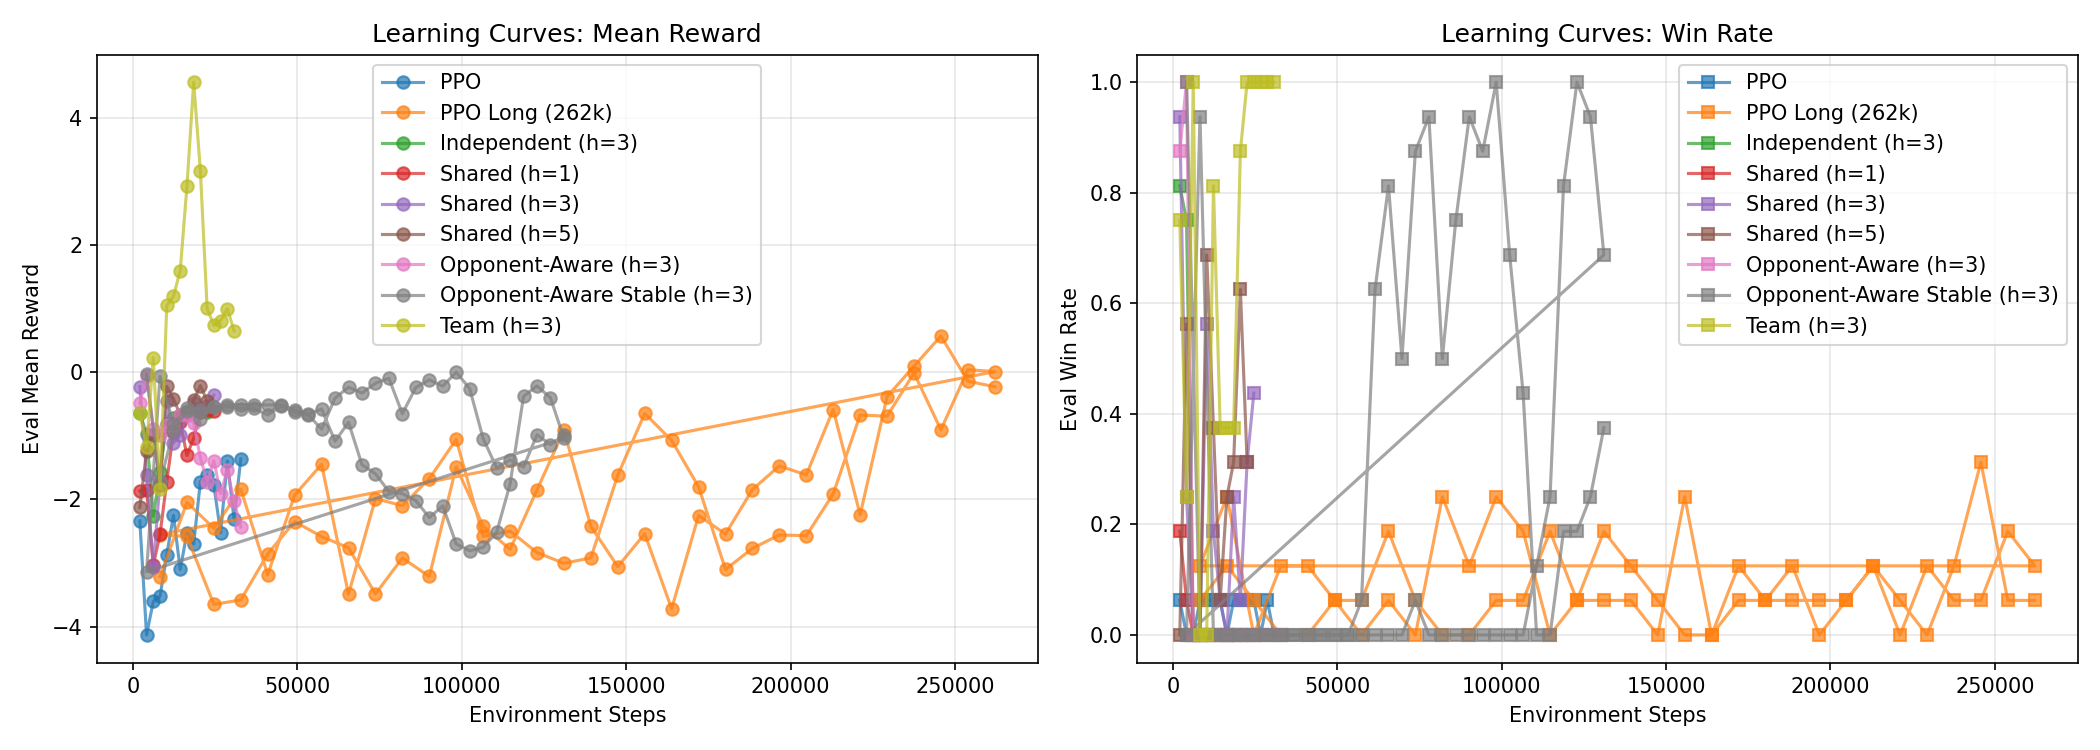
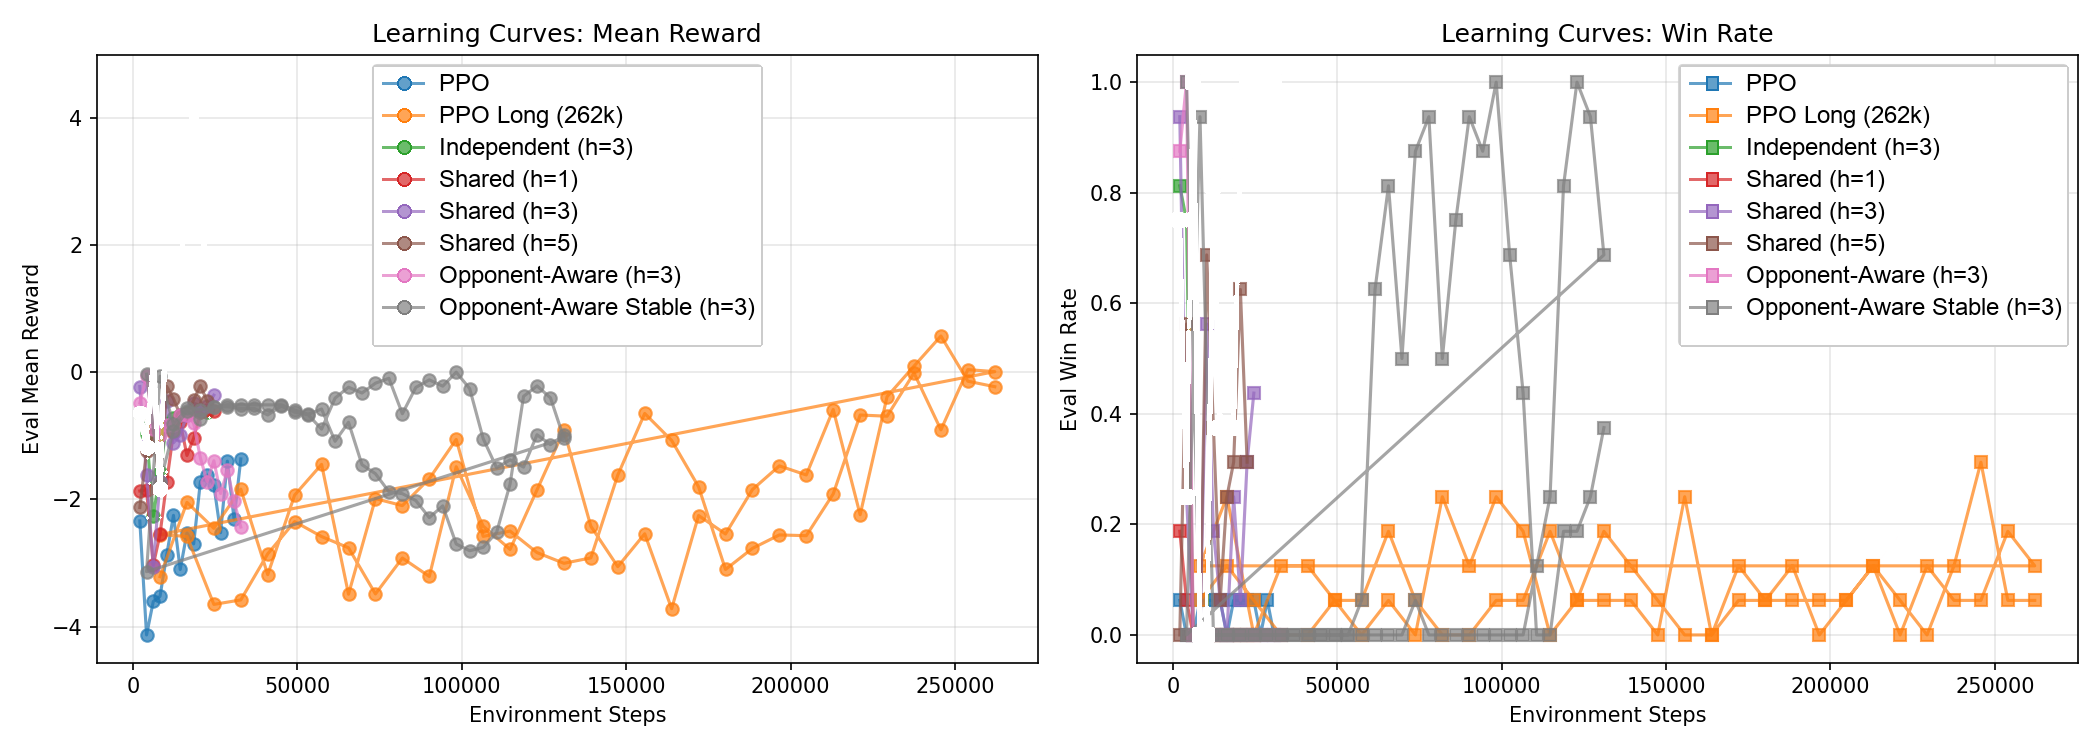
final changes

diff --git a/report_oscar_rewrite.tex b/report_oscar_rewrite.tex
@@ -1,0 +1,200 @@
+\documentclass[11pt]{article}
+
+\usepackage[margin=1in]{geometry}
+\usepackage{booktabs}
+\usepackage{graphicx}
+\usepackage{url}
+\usepackage{hyperref}
+\usepackage{amsmath}
+\usepackage{float}
+
+\title{Multi-Agent Reinforcement Learning in Pommerman: Comparing PPO and Dreamer-Style World Models}
+\author{Kosta Karathanosopoulos \and Taari Chandaria \and Wilfred Allison \and Ryder Swenson}
+\date{CS 1470 Final Project, Brown University, Spring 2026}
+
+\begin{document}
+\maketitle
+
+\section{Introduction}
+
+Many reinforcement learning methods are developed in settings where one agent acts in a mostly stationary environment. Multi-agent environments are harder: the world changes not only because of physics, but also because other agents make decisions. This makes learning especially difficult when rewards are sparse and delayed. A policy must learn what to do, while a model-based agent must also learn dynamics that include other agents' behavior.
+
+We study this problem in Pommerman, a four-player grid-world inspired by Bomberman. Agents move through an $11 \times 11$ board, place bombs, destroy wooden walls, collect power-ups, and try to survive while eliminating opponents. Pommerman is small enough for a course-scale project, but it still requires spatial reasoning, safety, planning, and opponent awareness. This makes it a useful testbed for asking whether a learned world model can help in a competitive multi-agent environment.
+
+Our project compares a model-free PPO baseline against Dreamer-style model-based agents. PPO learns directly from real rollouts using clipped policy-gradient updates. Dreamer instead learns a recurrent latent world model that predicts future board states, rewards, and episode continuation, then trains actor-critic policies through imagined rollouts. We implement three Dreamer variants: independent world models, a shared world model, and opponent-aware world models conditioned on other agents' recent actions and alive status.
+
+The main result is nuanced. In the original 2048-step local study, PPO was the strongest early baseline, reaching an evaluation mean reward of $1.14$ and a $50\%$ win rate over a small evaluation set. Early Dreamer variants learned world-model signals but did not win. However, larger Oscar runs changed the story: PPO's final win rate stayed weak under stricter free-for-all (FFA) evaluation, while shared Dreamer variants achieved much stronger win rates. The strongest comparable FFA result was Shared Dreamer with imagination horizon $h=3$, which reached a final win rate of $43.75\%$ and a best logged win rate of $93.75\%$. We therefore conclude that PPO is a useful early sanity-check baseline, but shared world-model learning becomes promising with more compute and training support.
+
+\section{Literature Review}
+
+Our work builds on Dreamer, a model-based reinforcement learning agent introduced by Hafner et al. \cite{hafner2020dreamer}. Dreamer learns a recurrent state-space model (RSSM) from experience, uses it to imagine latent trajectories, and trains a policy and value function on those imagined rollouts. The original Dreamer setting is single-agent control, where the transition dynamics depend on the agent and a fixed environment.
+
+Pommerman changes that assumption. In a single-agent model, the dynamics can be written as $p(s_{t+1} \mid s_t, a_t)$. In Pommerman, the next state depends on the joint action, closer to $p(s_{t+1} \mid s_t, a_t^1, a_t^2, a_t^3, a_t^4)$. If a world model ignores the other agents, it may produce misleading imagined futures. This is the central reason we test independent, shared, and opponent-aware Dreamer variants.
+
+Pommerman was introduced by Resnick et al. as a multi-agent benchmark with FFA play, partial observability, communication variants, planning, and opponent modeling \cite{resnick2018pommerman}. The environment is also known to be difficult for standard RL because useful actions can be dangerous early in training. Bombs are necessary for winning, but weak agents often die from their own bombs, creating a passive local optimum.
+
+PPO provides our model-free baseline \cite{schulman2017ppo}. PPO is relatively stable and simple, but it does not learn a dynamics model. In our experiments, PPO is useful as a baseline, but it also exposes an important metric issue: it trains on shaped rewards while we evaluate win rate using sparse terminal outcomes.
+
+\section{Methodology}
+
+\subsection{Environment and Observations}
+
+Pommerman is a four-agent grid world with rigid walls, wooden walls, passage tiles, power-ups, bombs, flames, and agents. Each agent chooses one of six actions: Stop, Up, Down, Left, Right, or Bomb. We focus on four-player FFA Pommerman, where each agent competes to be the last survivor. The environment is hard because agents must avoid explosions, navigate obstacles, decide when to clear wood, collect power-ups, and reason about other agents' future positions.
+
+We encode Pommerman's symbolic observations as tensors rather than rendered pixels. The board is represented with one-hot channels for tile types and agents. Additional feature planes encode bomb blast strength, bomb life, the controlled agent's position, ammo, blast strength, and kick ability. This keeps the problem spatial while avoiding the cost of visual perception from raw frames.
+
+\subsection{Models}
+
+The PPO baseline uses a convolutional encoder followed by actor and critic heads. The actor outputs a categorical distribution over six actions, and the critic predicts state value. PPO is trained from real trajectories using generalized advantage estimation with $\gamma=0.99$ and $\lambda=0.95$, a clipped objective with ratio $0.2$, entropy regularization, and multiple minibatch epochs.
+
+The Dreamer agents use a recurrent latent world model. Observations pass through a CNN encoder. A GRU-based RSSM maintains a deterministic state and a stochastic latent state. The world model predicts rewards, continuation, board reconstruction, and scalar observation features. The actor and critic operate on latent features and are trained from imagined rollouts. In the Oscar experiments, the main Dreamer runs used latent dimension 64, hidden dimension 256, sequence length 16, batch size 24, replay buffers between 16k and 32k, and imagination horizons 1, 3, or 5.
+
+Action masking means explicitly marking invalid actions as unavailable before sampling or training the policy, so agents do not waste updates on impossible or useless actions such as walking into walls or placing a bomb with no ammo. This was especially important for Dreamer, because imagined rollouts can otherwise let the actor exploit unrealistic actions inside an imperfect model.
+
+\paragraph{Independent Dreamer.}
+Each controlled agent has its own world model, actor, and critic. This allows specialization, but every agent must learn similar board physics separately.
+
+\paragraph{Shared Dreamer.}
+Agents share one world model while keeping separate actor and critic heads. This assumes that Pommerman's physical rules are common across agents. Our Oscar results support this design: shared horizon-3 and horizon-5 were the strongest comparable FFA Dreamer runs.
+
+\paragraph{Opponent-Aware Dreamer.}
+Each agent conditions its model on other agents' recent actions and alive status. This directly addresses multi-agent non-stationarity, but it also makes the model harder to optimize. In our runs, opponent-aware models sometimes reached very high best win rates but were less stable than the best shared model.
+
+\section{Challenges}
+
+The hardest part of the project was making the whole multi-agent RL pipeline trustworthy enough to interpret. Pommerman forced us to handle environment wrapping, observation encoding, reward shaping, recurrent replay, action validity, checkpointing, logging, evaluation, and visualization.
+
+The first challenge was reward design. Sparse terminal rewards provide little feedback, and bombs create a bad local optimum: early bomb use often kills weak agents, so agents can learn to survive passively instead of learning to win. We therefore used shaped rewards that preserved win/loss signals while adding intermediate terms for destroying wood, collecting power-ups, eliminating enemies, useful bombs, wasted bombs, blocked moves, ties, and step costs.
+
+This shaped reward helped training, but it also complicated interpretation. PPO can improve dense shaped reward without reliably winning games. This explains why PPO Long achieved a better best reward than short PPO but ended with only a $6.25\%$ final win rate. For this reason, we report final reward, best reward, final win rate, and best win rate separately.
+
+The second challenge was Dreamer's recurrent replay. The RSSM needs valid same-episode sequences; sampling across episode boundaries would corrupt the hidden state. We added sequence-aware replay checks to avoid training on invalid recurrent trajectories.
+
+The third challenge was the gap between world-model learning and control. In the early local runs, Dreamer world-model losses decreased, but the policies still did not win. This taught us to distinguish ``the model predicts something'' from ``the actor can use the model for good decisions.'' The larger Oscar runs show that this gap can shrink, especially for shared Dreamer, but it remains the key difficulty.
+
+Finally, evaluation itself was noisy. Pommerman wins are sparse, and many evaluations used small episode batches. Several methods spiked and then collapsed. Reporting both best and final win rate is therefore important: best win rate shows whether a method ever found a strong policy, while final win rate shows whether training preserved it.
+
+\section{Results}
+
+We report three pieces of evidence: the original short local study, later local/debugging runs that achieved nonzero Dreamer performance, and the larger Oscar FFA matrix.
+
+\subsection{Local and Debugging Runs}
+
+The first 2048-step local study validated that the pipeline worked, but it was too small to settle the algorithm comparison. PPO won early, while the initial Dreamer variants learned world-model signals but got zero wins. Later local debugging and optimized shared-Dreamer runs produced nonzero model-based performance, including a best-checkpoint evaluation of approximately $17.2\%$ win rate over 64 episodes.
+
+\begin{table}[H]
+\centering
+\resizebox{\linewidth}{!}{
+\begin{tabular}{lrrrr}
+\toprule
+Run & Steps & Final reward & Best reward & Best win rate \\
+\midrule
+PPO baseline & 2048 & 1.140 & 1.140 & 50.0\% \\
+Independent Dreamer & 2048 & -1.000 & -0.830 & 0.0\% \\
+Shared Dreamer & 2048 & -1.000 & -0.958 & 0.0\% \\
+Opponent-aware Dreamer & 2048 & -1.000 & -0.675 & 0.0\% \\
+Optimized Shared Dreamer ($h=1$) & 32768 & -- & -- & 17.2\% \\
+\bottomrule
+\end{tabular}
+}
+\caption{Local and debugging-stage results. The original 2048-step study favored PPO, but later optimized shared-Dreamer runs showed nonzero model-based control before the full Oscar matrix.}
+\label{tab:local-results}
+\end{table}
+
+\subsection{Oscar FFA Results}
+
+Table \ref{tab:oscar-results} shows the final Oscar FFA results. The main shift is that PPO no longer dominates. Short PPO finished with $0\%$ final win rate, and PPO Long finished with only $6.25\%$ final win rate despite reaching $31.25\%$ best win rate. Shared Dreamer $h=3$ was the strongest comparable final result, ending at $43.75\%$ win rate and reaching $93.75\%$ at its best checkpoint.
+
+\begin{table}[H]
+\centering
+\resizebox{\linewidth}{!}{
+\begin{tabular}{lrrrrrr}
+\toprule
+Experiment & Final reward & Best reward & Final win rate & Best win rate & Eval points & Last step \\
+\midrule
+PPO & -1.363 & -1.363 & 0.0\% & 6.25\% & 16 & 32768 \\
+PPO Long & -0.228 & 0.569 & 6.25\% & 31.25\% & 64 & 262144 \\
+Independent Dreamer ($h=3$) & -0.631 & -0.584 & 0.0\% & 81.25\% & 11 & 24216 \\
+Shared Dreamer ($h=1$) & -0.602 & -0.592 & 0.0\% & 18.75\% & 12 & 25952 \\
+Shared Dreamer ($h=3$) & -0.361 & -0.225 & 43.75\% & 93.75\% & 12 & 24856 \\
+Shared Dreamer ($h=5$) & -0.456 & -0.209 & 31.25\% & 68.75\% & 11 & 23156 \\
+Opponent-aware Dreamer ($h=3$) & -2.433 & -0.062 & 0.0\% & 100.0\% & 16 & 32768 \\
+Opponent-aware stable ($h=3$) & -0.988 & 0.001 & 37.5\% & 100.0\% & 64 & 131072 \\
+\bottomrule
+\end{tabular}
+}
+\caption{Oscar FFA results. Shared Dreamer with horizon 3 was the strongest comparable final result. PPO improved somewhat with longer training, but had low final win rate under the sparse terminal-win metric.}
+\label{tab:oscar-results}
+\end{table}
+
+The shared Dreamer results are the strongest positive finding. They suggest that Pommerman contains common physical dynamics that can be learned more efficiently by a shared model than by separate independent models. The horizon ablation is also informative: horizon 1 was too short, horizon 3 performed best, and horizon 5 remained strong but slightly weaker. This matches the intuition that Pommerman requires planning over delayed bomb effects, but long imagination can amplify model error.
+
+The opponent-aware results were high variance. Both opponent-aware variants reached $100\%$ best logged win rate, but the non-stabilized run collapsed to $0\%$ final win rate, and the stabilized version ended below Shared Dreamer $h=3$. Opponent conditioning is therefore promising, but harder to optimize than simple sharing.
+
+\begin{figure}[H]
+\centering
+\includegraphics[width=\linewidth]{results/final_results.png}
+\caption{Oscar reward and win-rate curves. Win rate is noisy, but Shared Dreamer $h=3$ and stabilized opponent-aware Dreamer achieve much stronger FFA win rates than PPO at their best checkpoints.}
+\label{fig:curves}
+\end{figure}
+
+Overall, the results support four conclusions. First, PPO is useful for early validation but does not reliably optimize terminal wins in our Oscar FFA runs. Second, shared world-model learning is the strongest Dreamer adaptation we tested. Third, opponent-aware modeling can produce strong peaks but was less stable. Fourth, reward shaping, action masking, checkpoint selection, and evaluation variance are central to interpreting multi-agent RL results in Pommerman.
+
+\section{Ethics}
+
+This project uses a benchmark game environment and does not involve personal data, human subjects, private information, or real-world deployment. The direct ethical risks are limited, but multi-agent RL methods can eventually transfer to higher-stakes domains such as robotics, markets, cybersecurity, or autonomous decision-making. Agents trained only to optimize reward can learn unwanted adversarial behavior, so benchmark results should not be presented as deployment-ready systems.
+
+There are also compute and reward-design considerations. Larger model-based experiments require more energy, so claims about sample efficiency should account for total training cost. Reward shaping also encodes design choices. We penalized passive behavior and wasted bombs to avoid local optima, but shaped reward is not the same as solving the original sparse benchmark. For that reason, we report shaped reward and terminal win rate separately.
+
+\section{Reflection and Future Work}
+
+The main lesson we learned is that model-based RL is not just about learning a predictive model. It is about learning a predictive model that is useful for control. A world model can reconstruct board states and reduce loss while still missing rare but important events, such as whether a bomb traps the agent or whether an opponent can escape.
+
+We also learned that multi-agent RL magnifies every engineering problem. In Pommerman, failure can come from the environment wrapper, observation encoding, invalid actions, sparse rewards, recurrent replay, opponent behavior, world-model error, actor-critic instability, or evaluation noise. The tests, JSONL logs, checkpointing, reward diagnostics, and visualizations were necessary for understanding which failure we were seeing.
+
+The results changed how we think about both PPO and Dreamer. PPO looked strongest in the tiny local study, but the Oscar runs revealed a gap between shaped-reward optimization and terminal wins. Dreamer initially looked mostly negative, but larger shared-model runs showed that model-based control can become competitive once the world model has enough capacity, replay, warmup, action masking, and compute.
+
+Future work should first run more seeds and larger evaluation batches, since our win-rate estimates are noisy. Second, it should use better checkpoint selection: several runs found strong policies and then lost them by the final checkpoint. Third, PPO should be strengthened with consistent action masking, tuned entropy and learning-rate schedules, and rewards more closely aligned with terminal wins. Fourth, opponent modeling should be improved beyond recent actions and alive status, possibly with policy-belief models or centralized critics. Finally, a curriculum over simpler boards, fewer agents, or subgoals such as safe navigation and wood destruction could make Dreamer training more stable.
+
+In the end, our project produced a more nuanced result than we expected. PPO was strongest in the tiny local study, but Shared Dreamer $h=3$ became the strongest comparable method in the larger Oscar FFA runs. This shows both sides of the model-based RL tradeoff: Dreamer-style methods are harder to train, but with shared dynamics, short-horizon imagination, shaped rewards, action masking, and enough compute, they can outperform the PPO baseline on terminal win rate.
+
+\begin{thebibliography}{9}
+
+\bibitem{resnick2018pommerman}
+Cinjon Resnick, Wes Eldridge, David Ha, Denny Britz, Jakob Foerster, Julian Togelius, Kyunghyun Cho, and Joan Bruna.
+\newblock Pommerman: A Multi-Agent Playground.
+\newblock \emph{AIIDE Workshops}, 2018.
+\newblock \url{https://arxiv.org/abs/1809.07124}
+
+\bibitem{hafner2020dreamer}
+Danijar Hafner, Timothy Lillicrap, Jimmy Ba, and Mohammad Norouzi.
+\newblock Dream to Control: Learning Behaviors by Latent Imagination.
+\newblock \emph{International Conference on Learning Representations}, 2020.
+\newblock \url{https://arxiv.org/abs/1912.01603}
+
+\bibitem{schulman2017ppo}
+John Schulman, Filip Wolski, Prafulla Dhariwal, Alec Radford, and Oleg Klimov.
+\newblock Proximal Policy Optimization Algorithms.
+\newblock arXiv:1707.06347, 2017.
+\newblock \url{https://arxiv.org/abs/1707.06347}
+
+\bibitem{ng1999reward}
+Andrew Y. Ng, Daishi Harada, and Stuart Russell.
+\newblock Policy Invariance Under Reward Transformations: Theory and Application to Reward Shaping.
+\newblock \emph{International Conference on Machine Learning}, 1999.
+
+\bibitem{assran2023ijepa}
+Mahmoud Assran, Quentin Duval, Ishan Misra, Piotr Bojanowski, Pascal Vincent, Michael Rabbat, Yann LeCun, and Nicolas Ballas.
+\newblock Self-Supervised Learning from Images with a Joint-Embedding Predictive Architecture.
+\newblock \emph{CVPR}, 2023.
+\newblock \url{https://arxiv.org/abs/2301.08243}
+
+\bibitem{maes2026leworldmodel}
+Lucas Maes, Quentin Le Lidec, Damien Scieur, Yann LeCun, and Randall Balestriero.
+\newblock LeWorldModel: Stable End-to-End Joint-Embedding Predictive Architecture from Pixels.
+\newblock arXiv:2603.19312, 2026.
+\newblock \url{https://arxiv.org/abs/2603.19312}
+
+\end{thebibliography}
+
+\end{document}

diff --git a/analyze_results.py b/analyze_results.py
@@ -78,6 +78,11 @@ def main():
         "Opponent-Aware Stable (h=3)": artifacts_dir / "opponent-aware-stable-h3-ffa" / "logs",
         "Team (h=3)": artifacts_dir / "team-shared-h3" / "logs",
     }
+    plot_experiments = {
+        name
+        for name in experiments
+        if name != "Team (h=3)"
+    }
 
     print("=" * 70)
     print("FINAL EXPERIMENT ANALYSIS")
@@ -123,7 +128,7 @@ def main():
     # Plot 1: Reward curves
     ax = axes[0]
     for name, data in all_data.items():
-        if data["rewards"]:
+        if name in plot_experiments and data["rewards"]:
             ax.plot(data["env_steps"], data["rewards"], label=name, marker="o", alpha=0.7)
     ax.set_xlabel("Environment Steps")
     ax.set_ylabel("Eval Mean Reward")
@@ -134,7 +139,7 @@ def main():
     # Plot 2: Win rate curves
     ax = axes[1]
     for name, data in all_data.items():
-        if data["win_rates"]:
+        if name in plot_experiments and data["win_rates"]:
             ax.plot(data["env_steps"], data["win_rates"], label=name, marker="s", alpha=0.7)
     ax.set_xlabel("Environment Steps")
     ax.set_ylabel("Eval Win Rate")
